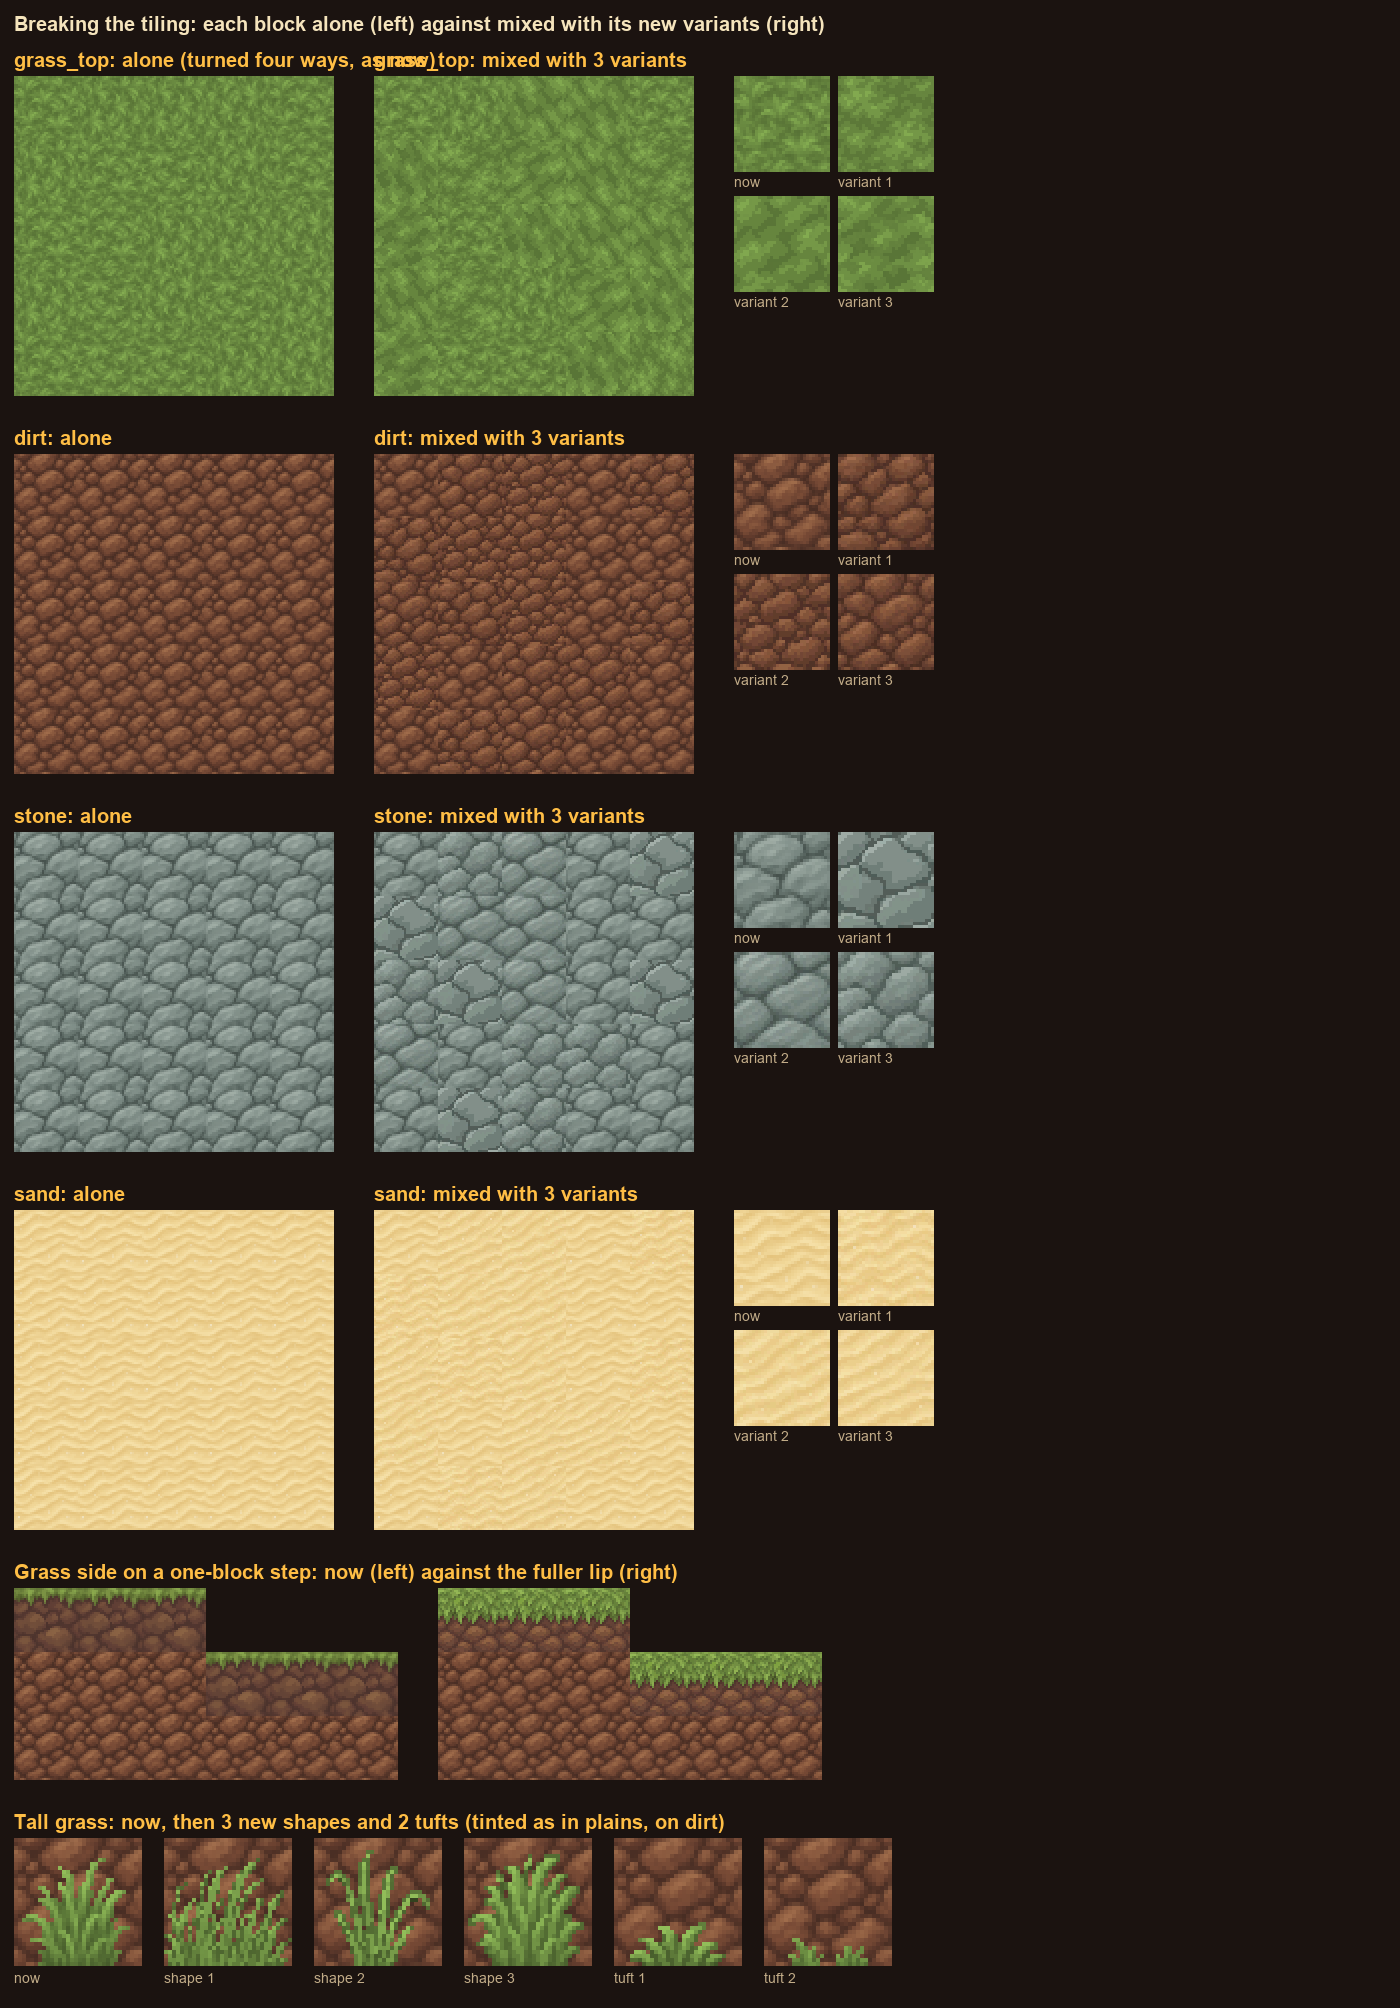
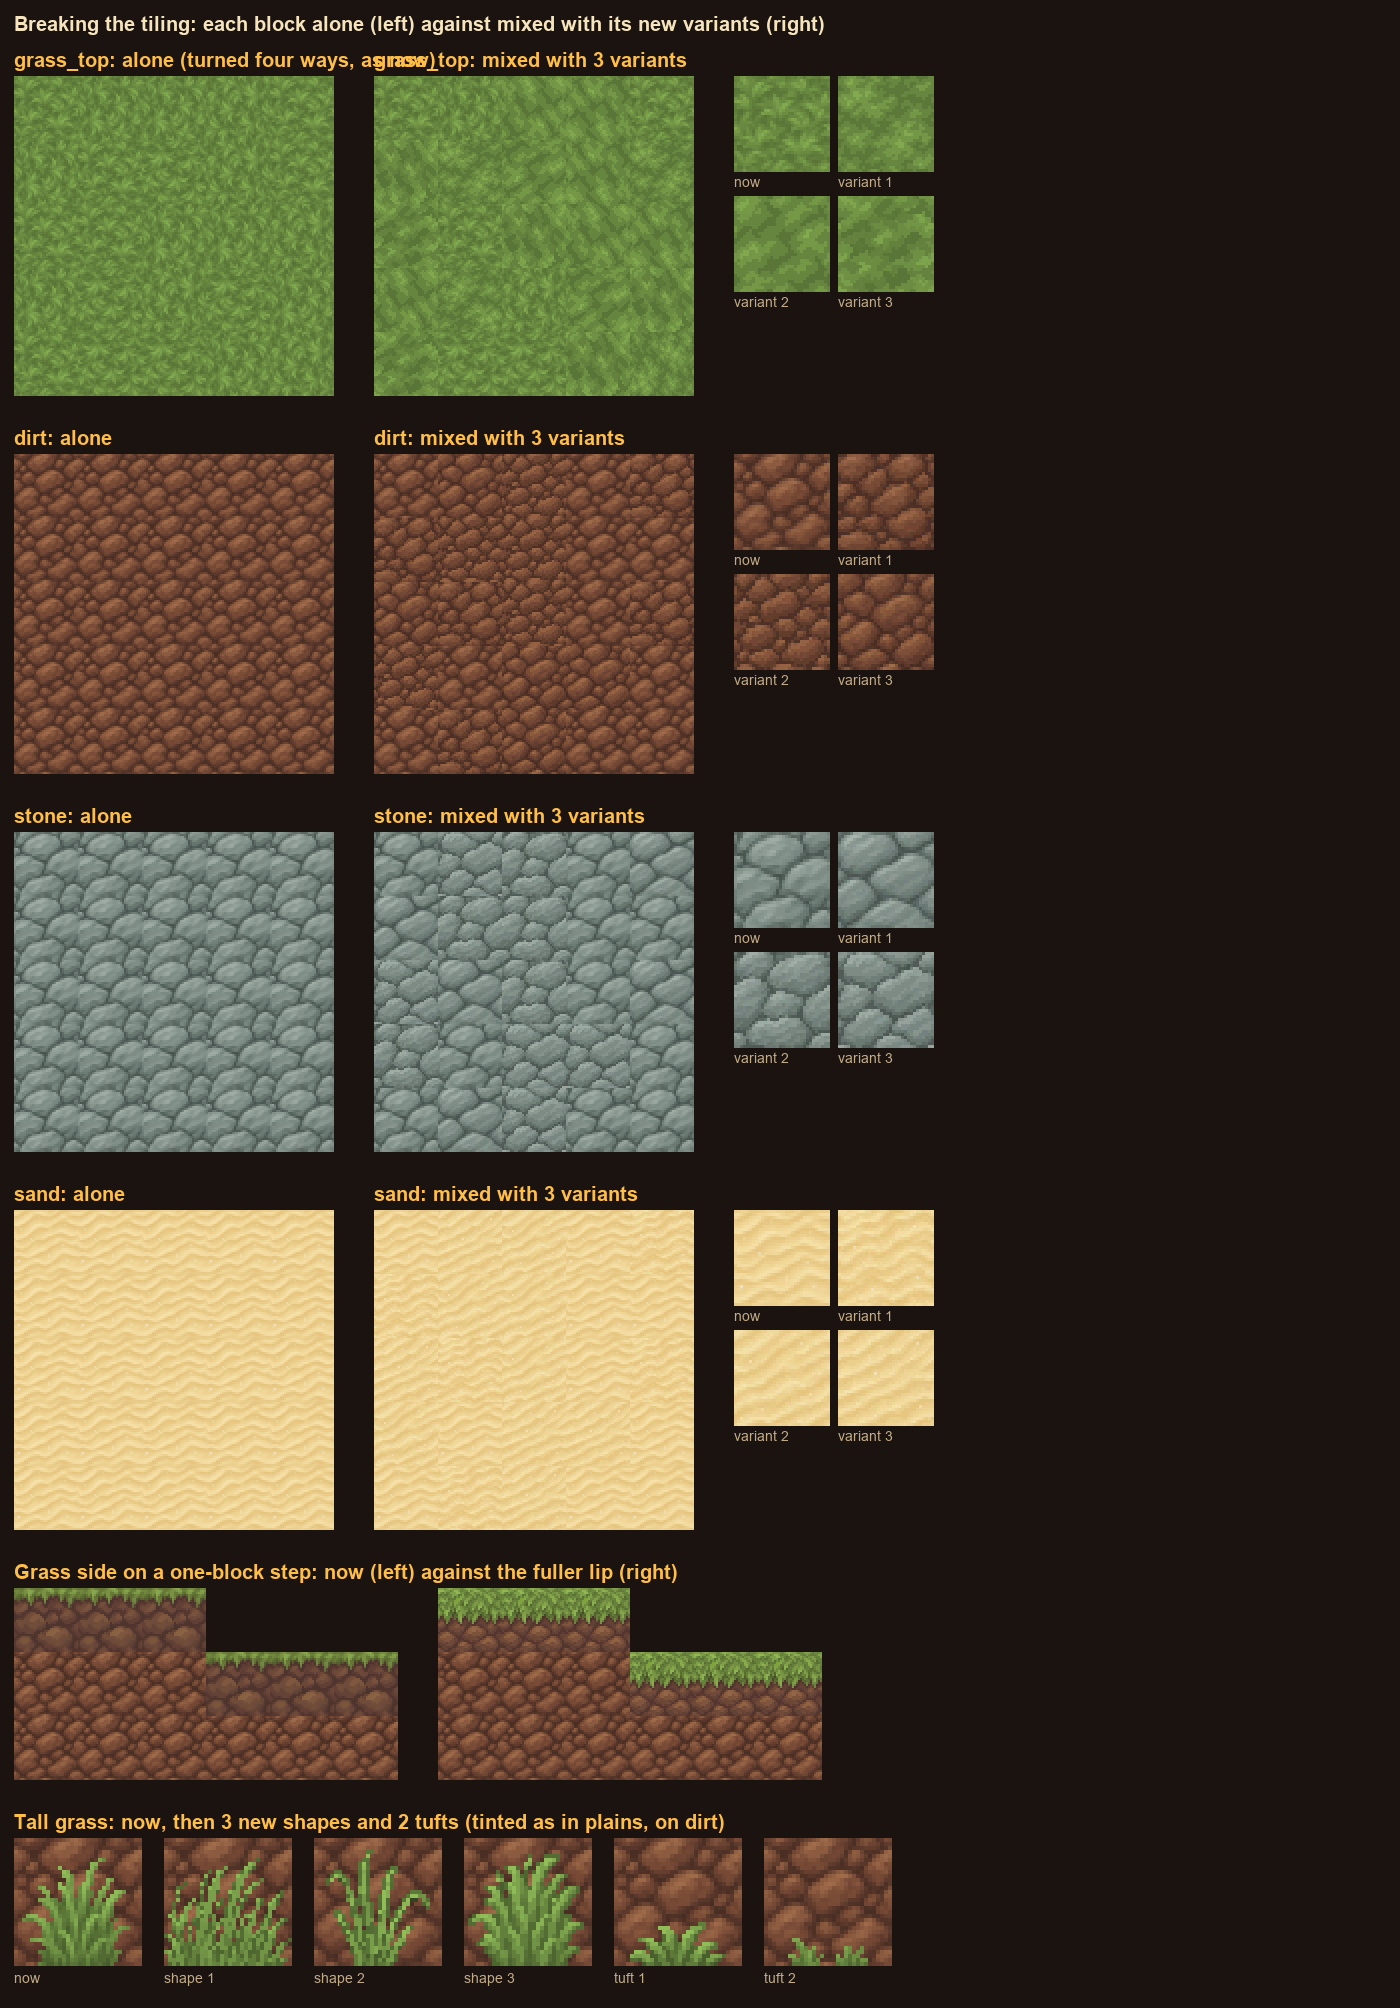
Block variants: stone takes its two redrawn variants (same slab size), the field blends

Changed region(s): [[0.2457, 0.4014, 0.4914, 0.5867], [0.5221, 0.4014, 0.6757, 0.5249]]

diff --git a/notes/ui-codex/parts/variants.py b/notes/ui-codex/parts/variants.py
@@ -85,7 +85,8 @@ def main():
     for name in ("grass_top", "dirt", "stone", "sand"):
         tinted = name in TINTED
         orig = np.array(Image.open(os.path.join(BLOCK, name + ".png")).convert("RGBA"))
-        vars_ = [match_colour(cut(f"var_{name}_{k}", tinted), orig) for k in (1, 2, 3)]
+        ks = (2, 4, 5) if name == "stone" else (1, 2, 3)  # stone 1 and 3 read flatter and smaller-slabbed; redrawn as 4 and 5
+        vars_ = [match_colour(cut(f"var_{name}_{k}", tinted), orig) for k in ks]
         for k, v in enumerate(vars_, 1):
             os.makedirs(os.path.join(DELIVER, name), exist_ok=True)
             p = os.path.join(DELIVER, name, f"{k}.png")
